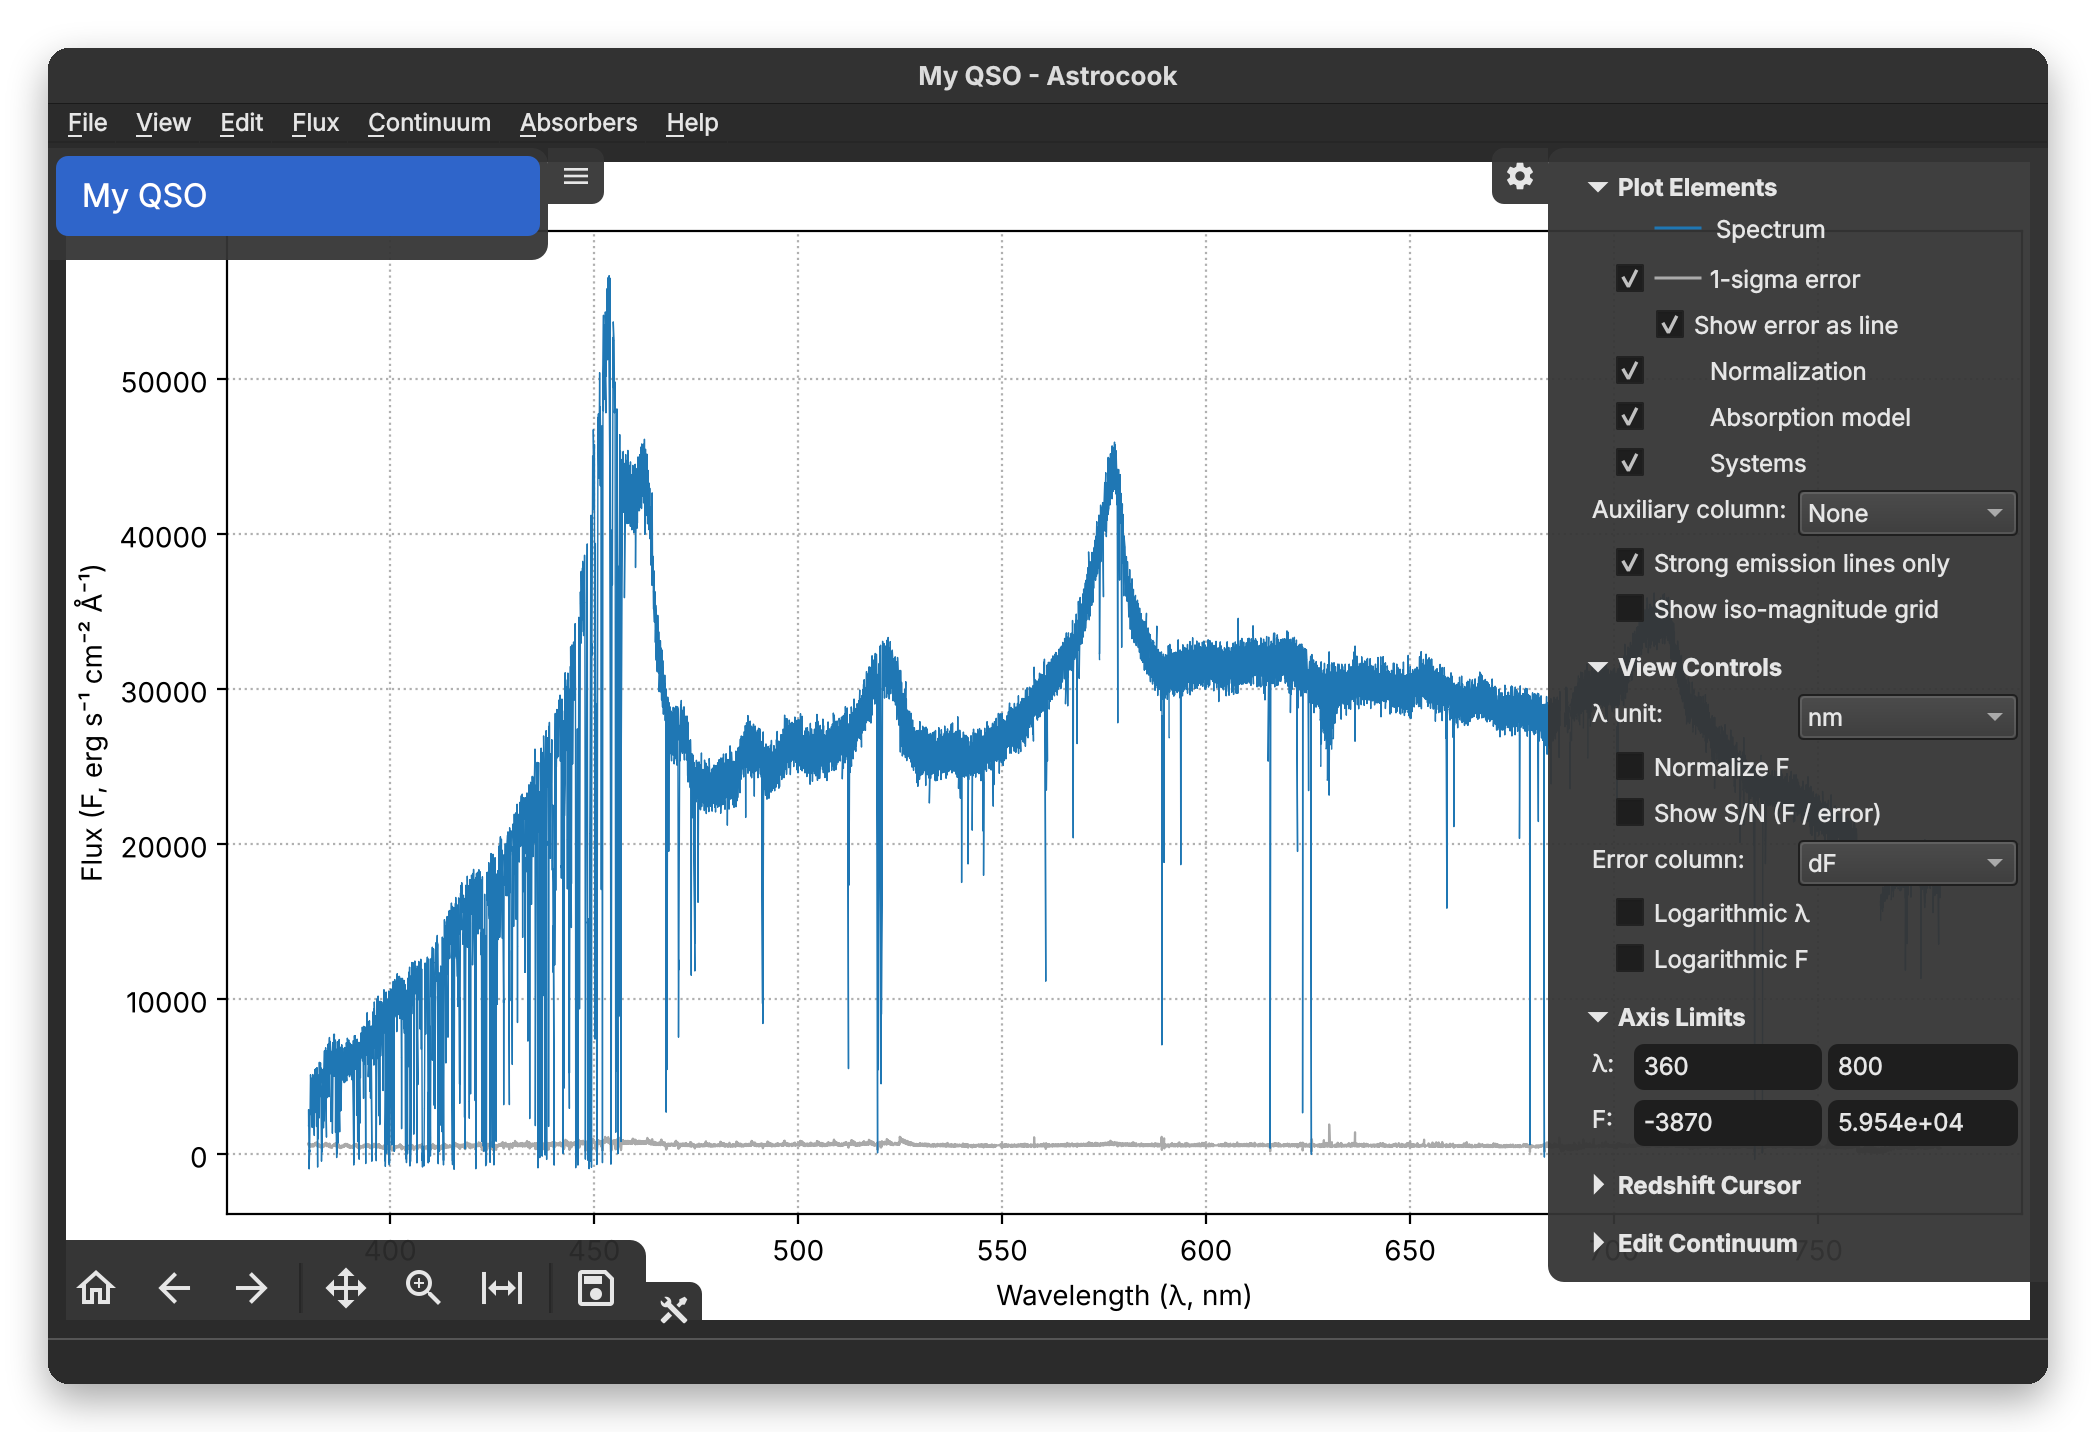
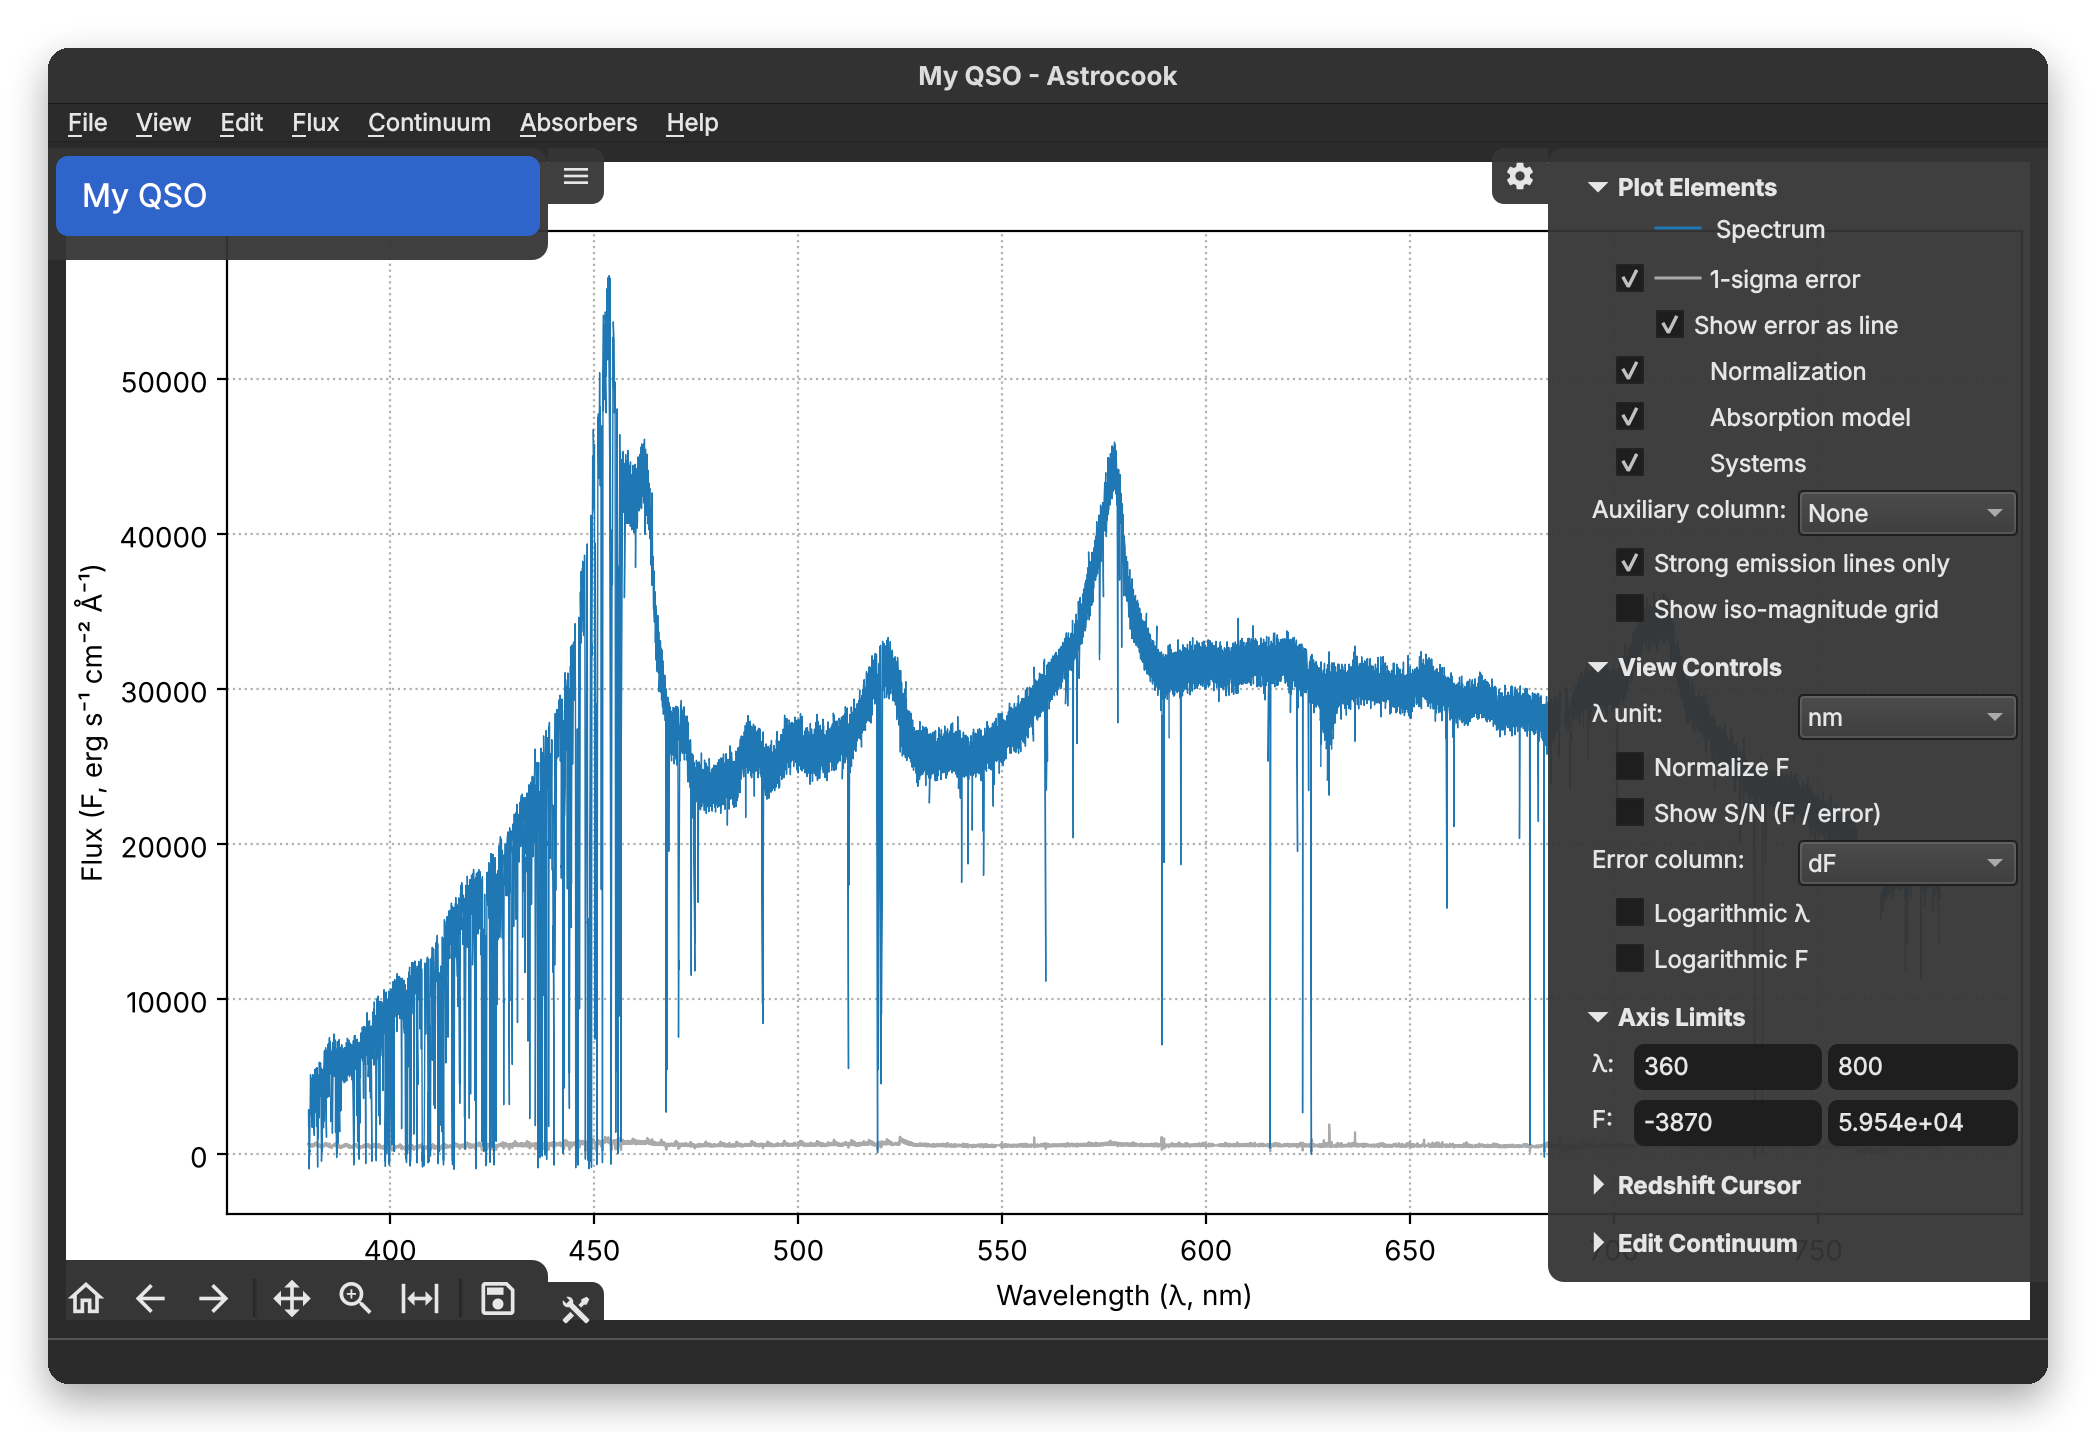
Floating toolbar as wide as the side cards
CARD_WIDTH (floating_cards) for the side cards and the floating toolbar:
tighter buttons and 22 px icons when floating, smaller icons where they
still do not fit (platform styles), fitted again at each placement
since the size of the buttons is known once the window is shown
(Guido's request).

Claude-Session: https://claude.ai/code/session_01N95cbM7xvLMDyKr9XgXJpi

Changed region(s): [[0.031, 0.8603, 0.3411, 0.9218]]

diff --git a/astrocook/gui/plot_toolbar.py b/astrocook/gui/plot_toolbar.py
@@ -13,15 +13,20 @@ from matplotlib.backends.backend_qtagg import NavigationToolbar2QT as Navigation
 from PySide6.QtCore import QEvent, QSize, Qt
 from PySide6.QtGui import QAction, QKeySequence, QPalette, QShortcut
 from PySide6.QtWidgets import QApplication, QPushButton, QSizePolicy
+
+QWIDGETSIZE_MAX = (1 << 24) - 1  # the maximum size of a widget in Qt
 import qtawesome as qta
 
-from .floating_cards import CardFader
+from .floating_cards import CARD_WIDTH, CardFader
 from .theme import ACCENT
 
 #: The icon of each tool (Material Design 6, outlined)
 #: The tab that shows or hides the floating toolbar, as those of the cards
 TAB_SIZE = 28
 TAB_ICON = 'mdi6.tools'
+#: The icons of the floating toolbar, a little smaller than in a toolbar
+#: row, to fit the width of the cards
+FLOAT_ICON_SIZE = 22
 
 TOOL_ICONS = {
     'home': 'mdi6.home-outline',
@@ -189,9 +194,11 @@ class AstrocookToolbar(NavigationToolbar):
                 f"QPushButton#ToolbarTab {{ background: {background}; border: none; "
                 "border-top-right-radius: 6px; border-bottom-right-radius: 0px; "
                 "margin: 0px; padding: 0px; }")
+        # Tighter when floating, to fit the width of the cards
+        spacing, padding, button = ("1px", "4px 4px", "3px") if floating else ("2px", "4px 6px", "5px")
         self.setStyleSheet(f"""
-            QToolBar {{ spacing: 2px; padding: 4px 6px; {frame} }}
-            QToolButton {{ border: none; border-radius: 6px; padding: 5px; }}
+            QToolBar {{ spacing: {spacing}; padding: {padding}; {frame} }}
+            QToolButton {{ border: none; border-radius: 6px; padding: {button}; }}
             QToolButton:hover {{ background: rgba(128, 128, 128, 0.18); }}
             QToolButton:checked {{ background: {ACCENT}; }}
             QLabel {{ color: {palette.color(QPalette.ColorRole.PlaceholderText).name()}; }}
@@ -220,6 +227,20 @@ class AstrocookToolbar(NavigationToolbar):
         self.refresh_icons()
         self.place()
 
+    def _fit_to_width(self, width: int):
+        size = FLOAT_ICON_SIZE
+        self.ensurePolished()
+        self.setMinimumWidth(0)
+        self.setMaximumWidth(QWIDGETSIZE_MAX)
+        while True:
+            if self.iconSize().width() != size:
+                self.setIconSize(QSize(size, size))
+            if self.sizeHint().width() <= width or size <= 16:
+                break
+            size -= 2
+        self.setFixedWidth(width)
+        self.adjustSize()
+
     def set_shown(self, shown: bool, notify: bool = False):
         """Show or hide the floating toolbar; its tab stays."""
         self.setVisible(shown)
@@ -233,7 +254,11 @@ class AstrocookToolbar(NavigationToolbar):
         anchor = getattr(self, '_anchor', None)
         if anchor is None:
             return
-        self.adjustSize()
+        # As wide as the side cards (Guido): tighter buttons (refresh_icons),
+        # and smaller icons where they still do not fit (platform styles).
+        # Again at each placement: the size of the buttons is known only
+        # once the window is shown
+        self._fit_to_width(CARD_WIDTH)
         host = anchor.parentWidget()
         bottom = host.rect().bottom() + 1
         self.move(0, bottom - self.height())

diff --git a/tests/test_plot_parts.py b/tests/test_plot_parts.py
@@ -161,7 +161,10 @@ def test_floating_toolbar(qtbot, window):
     viewer = window.plot_viewer
     toolbar, tab = viewer.toolbar, viewer.toolbar.tab
     assert viewer.main_layout.indexOf(toolbar) == -1
-    assert toolbar.width() < viewer.width() / 2
+    # As wide as the side cards, and all its tools fit (Guido)
+    from astrocook.gui.floating_cards import CARD_WIDTH
+    assert toolbar.width() == CARD_WIDTH
+    assert toolbar.sizeHint().width() <= CARD_WIDTH
 
     def in_the_corner():
         g, t = toolbar.geometry(), tab.geometry()
@@ -491,7 +494,8 @@ def test_toolbar_icons_and_tips(window):
     tips = {k: a.toolTip() for k, a in toolbar._tool_actions.items()}
     assert tips["pan"].endswith("(P)") and tips["zoom"].endswith("(Z)")
     assert tips["select"].endswith("(X)") and tips["home"].endswith("(H)")
-    assert toolbar.iconSize().width() == 24
+    # 22 px floating over the plot, to fit the width of the cards (phase 5-bis)
+    assert toolbar.iconSize().width() == 22
     # The coordinates under the mouse are still written by the toolbar
     assert toolbar.locLabel is not None
     # The other plots get the same look, without Select

diff --git a/astrocook/gui/main_panels.py b/astrocook/gui/main_panels.py
@@ -24,13 +24,13 @@ from PySide6.QtWidgets import (QAbstractItemView, QApplication, QCheckBox, QComb
 from astrocook.core.session import SessionV2
 from astrocook.core.utils import resource_path
 
-from .floating_cards import CardFader, CollapsibleSection, WrappedLabel
+from .floating_cards import CARD_WIDTH, CardFader, CollapsibleSection, WrappedLabel
 from .pyside_plot import SpectrumPlotWidget
 from .theme import ACCENT, HINT_TEXT
 
 # --- Constants for Sidebar Widths ---
-LEFT_SIDEBAR_WIDTH = 250
-RIGHT_SIDEBAR_WIDTH = 250
+LEFT_SIDEBAR_WIDTH = CARD_WIDTH   # as the floating toolbar of the plot
+RIGHT_SIDEBAR_WIDTH = CARD_WIDTH
 ANIMATION_DURATION = 150 # ** Speed up animation **
 BUTTON_WIDTH = 28
 BUTTON_HEIGHT = 28

diff --git a/astrocook/gui/floating_cards.py b/astrocook/gui/floating_cards.py
@@ -11,6 +11,7 @@ from PySide6.QtGui import QIcon
 from PySide6.QtWidgets import (QApplication, QGraphicsOpacityEffect, QLabel, QToolButton,
                                QVBoxLayout, QWidget)
 
+CARD_WIDTH = 250       # Width of the cards and of the floating toolbar (px)
 CARD_FADED = 0.35      # Opacity of a card while the mouse is away
 CARD_FADE_DELAY = 500  # ms before fading out after the mouse leaves
 CARD_FADE_TIME = 200   # ms of the fade animation

diff --git a/CHANGELOG.md b/CHANGELOG.md
@@ -8,7 +8,7 @@
 - GUI: a **Select** tool in the toolbar of the main plot (F73: the selection of a region was there, but no button reached it). Drag along the wavelength axis to select a region, then choose **Split region**, **Mask region...**, **Rebin region...** or **Zoom to region**; the recipe dialogs open with the region filled in. See *Navigating the Plot* in the *Getting Started* tutorial.
 
 ### Changed
-- GUI: the toolbar of the plots (main window and System Inspector) behaves as the side panels: it floats over the bottom left corner of the plot, flush with it and without a border, with its tools only; it fades while the mouse is on the plot; a tab at its right edge hides it and shows it again (as *View > Show Toolbar*). The plot takes the whole height of the window. Its keys work as before. The toolbar of the System Inspector is remembered shown or hidden too. The card of the sessions stops above the toolbar (or its tab), its list scrolling, instead of covering it when many sessions are open. The status line of the System Inspector looks as the status bar of the main window (the same line on top and height, across the window).
+- GUI: the toolbar of the plots (main window and System Inspector) behaves as the side panels: as wide as them, it floats over the bottom left corner of the plot, flush with it and without a border, with its tools only; it fades while the mouse is on the plot; a tab at its right edge hides it and shows it again (as *View > Show Toolbar*). The plot takes the whole height of the window. Its keys work as before. The toolbar of the System Inspector is remembered shown or hidden too. The card of the sessions stops above the toolbar (or its tab), its list scrolling, instead of covering it when many sessions are open. The status line of the System Inspector looks as the status bar of the main window (the same line on top and height, across the window).
 - System Inspector: without a continuum, the velocity plot showed empty panels (the flux, not divided by any continuum, fell outside their limits) and the fits failed with an error of the fitter. It now shows a message with a button that opens *Auto-estimate Continuum...*, and the fits (Refit Selected, Refit All, Bayesian, adding a component from the plot) are disabled with a tooltip. Without systems, the plot says how to start, and the table says "No components". The transitions and the redshift typed above the plot now show the spectrum also when no component is selected (they showed nothing).
 - System Inspector: the uncertainty of `z` is shown in km/s (c δz / (1 + z), e.g. `2.355374 ± 0.34 km/s`) instead of δz in scientific notation, which was hard to compare between rows; the tooltip of the row gives both, the exported tables keep δz. The **btur** column, almost always a frozen 0, is hidden while no component uses it, and appears when one does; a right click on the header of the table shows or hides any column (remembered), and **Default Columns** restores this behaviour; while the column is hidden, **Unfreeze 'btur'** in the menu of the table frees it for the selected components and shows the column. The boxes above the velocity plot are in three groups separated by thin lines (the view; the starting values and fit window of a new component; the residuals), each with a tooltip.
 - GUI, main plot: the emission lines are named in spectroscopic notation (Lyα, N V, Si IV, C IV, C III], [O III]...; the others as C II 1334) instead of the internal keys (`Ly_a`, `NV_1238`), on a white ground so that they read over the data. The ticks of the components are in two rows, HI below and metals above, shorter and in a softer, translucent red: in the forest they made a solid red block that hid the metals. The plot has no title any more (the name of the session is in the window title and in the session list), which leaves more room to the data. The unit of the flux is written in the usual order, on the axis and in the coordinates under the mouse (erg s⁻¹ cm⁻² Å⁻¹; it was erg Å⁻¹ s⁻¹ cm⁻², with the Å drawn out of place). A full redraw of a session with 764 components takes about 0.26 s instead of 0.31–0.35 s on one machine.
